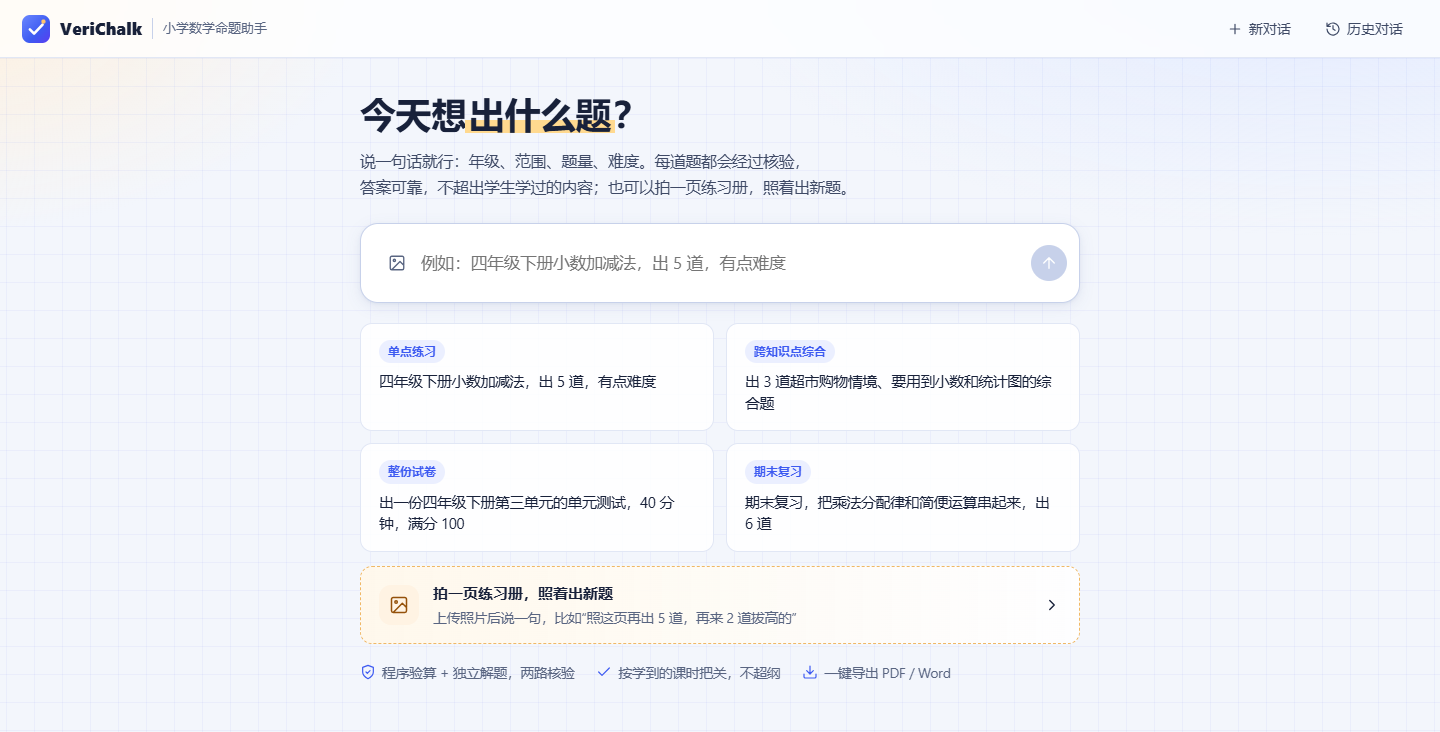
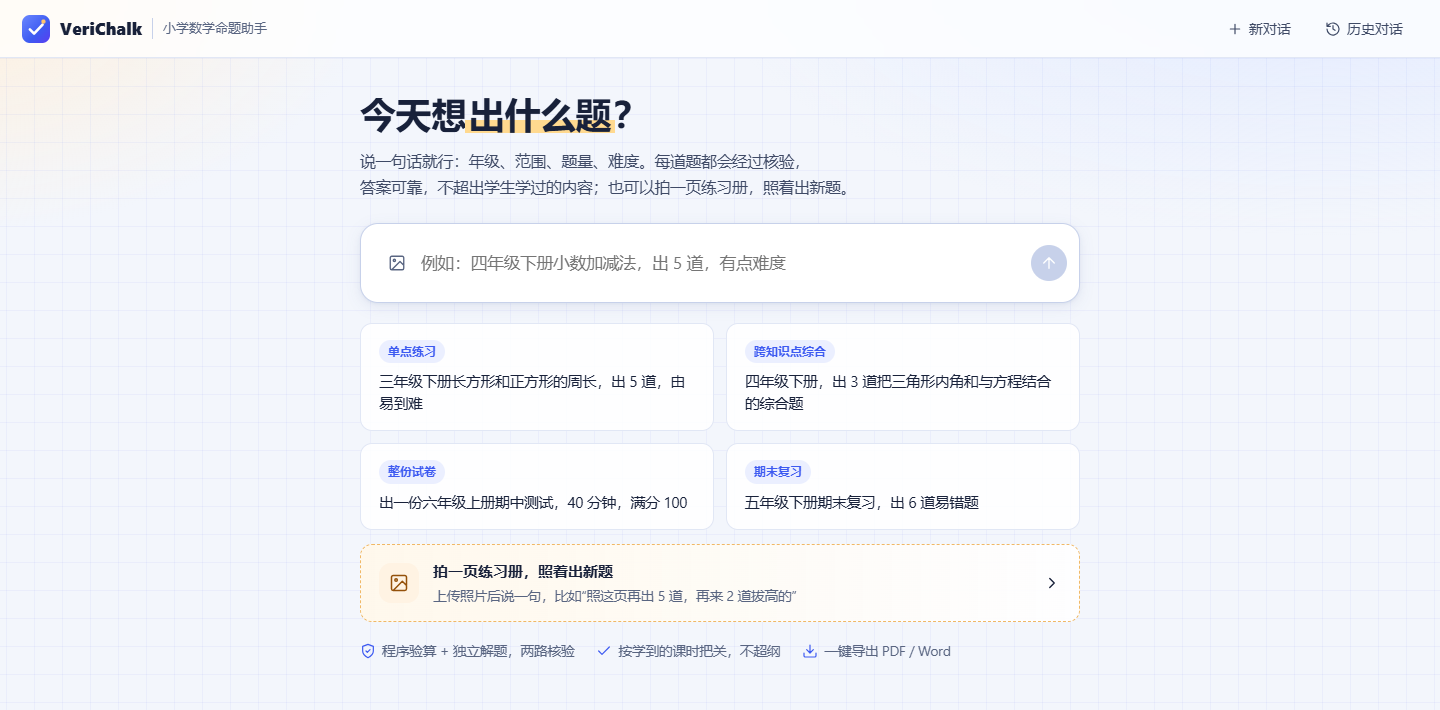
Replace the four welcome examples with prompts the agent answers best
The old examples included one the agent could not deliver (a statistics chart
that never appeared). About 90 candidate prompts were run against the live
agent and read item by item: answers hand-checked, every item of a
"comprehensive" request must really combine the named topics, items within a
set must differ, and the prompt must stay good across repeated runs. The
chosen four span grades 3-6 and were each run 2-7 times verbatim.

Refresh the README welcome screenshot to match.

diff --git a/frontend/src/user/Welcome.tsx b/frontend/src/user/Welcome.tsx
@@ -16,10 +16,10 @@ interface Props {
 const PHOTO_REQUEST = "照这页再出 5 道，再来 2 道拔高的";
 
 const EXAMPLES = [
-  { tag: "单点练习", text: "四年级下册小数加减法，出 5 道，有点难度" },
-  { tag: "跨知识点综合", text: "出 3 道超市购物情境、要用到小数和统计图的综合题" },
-  { tag: "整份试卷", text: "出一份四年级下册第三单元的单元测试，40 分钟，满分 100" },
-  { tag: "期末复习", text: "期末复习，把乘法分配律和简便运算串起来，出 6 道" },
+  { tag: "单点练习", text: "三年级下册长方形和正方形的周长，出 5 道，由易到难" },
+  { tag: "跨知识点综合", text: "四年级下册，出 3 道把三角形内角和与方程结合的综合题" },
+  { tag: "整份试卷", text: "出一份六年级上册期中测试，40 分钟，满分 100" },
+  { tag: "期末复习", text: "五年级下册期末复习，出 6 道易错题" },
 ];
 
 /** 空状态：一句话说清能做什么，给几个可以直接改着用的例子。 */
